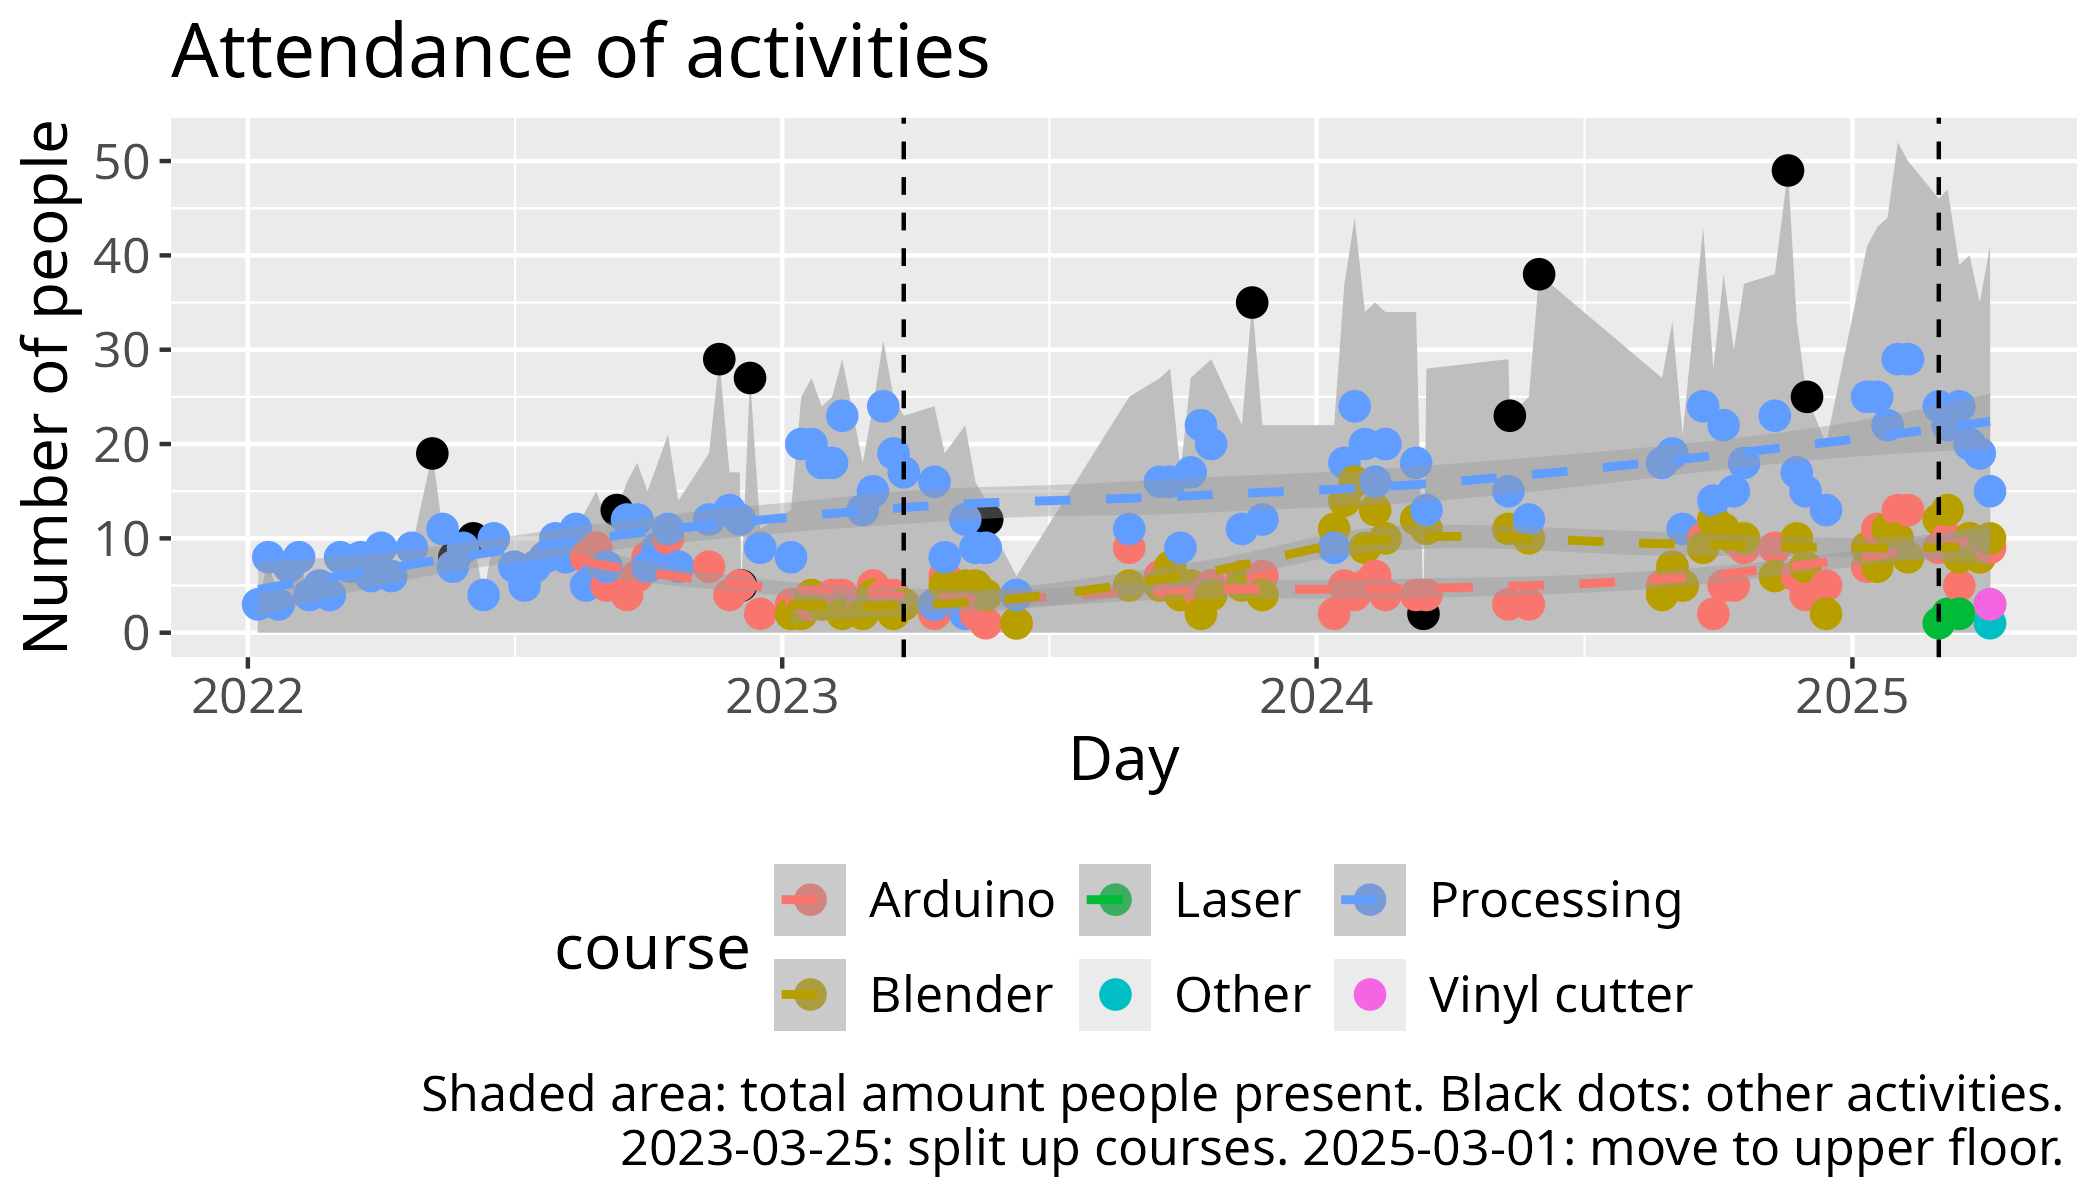
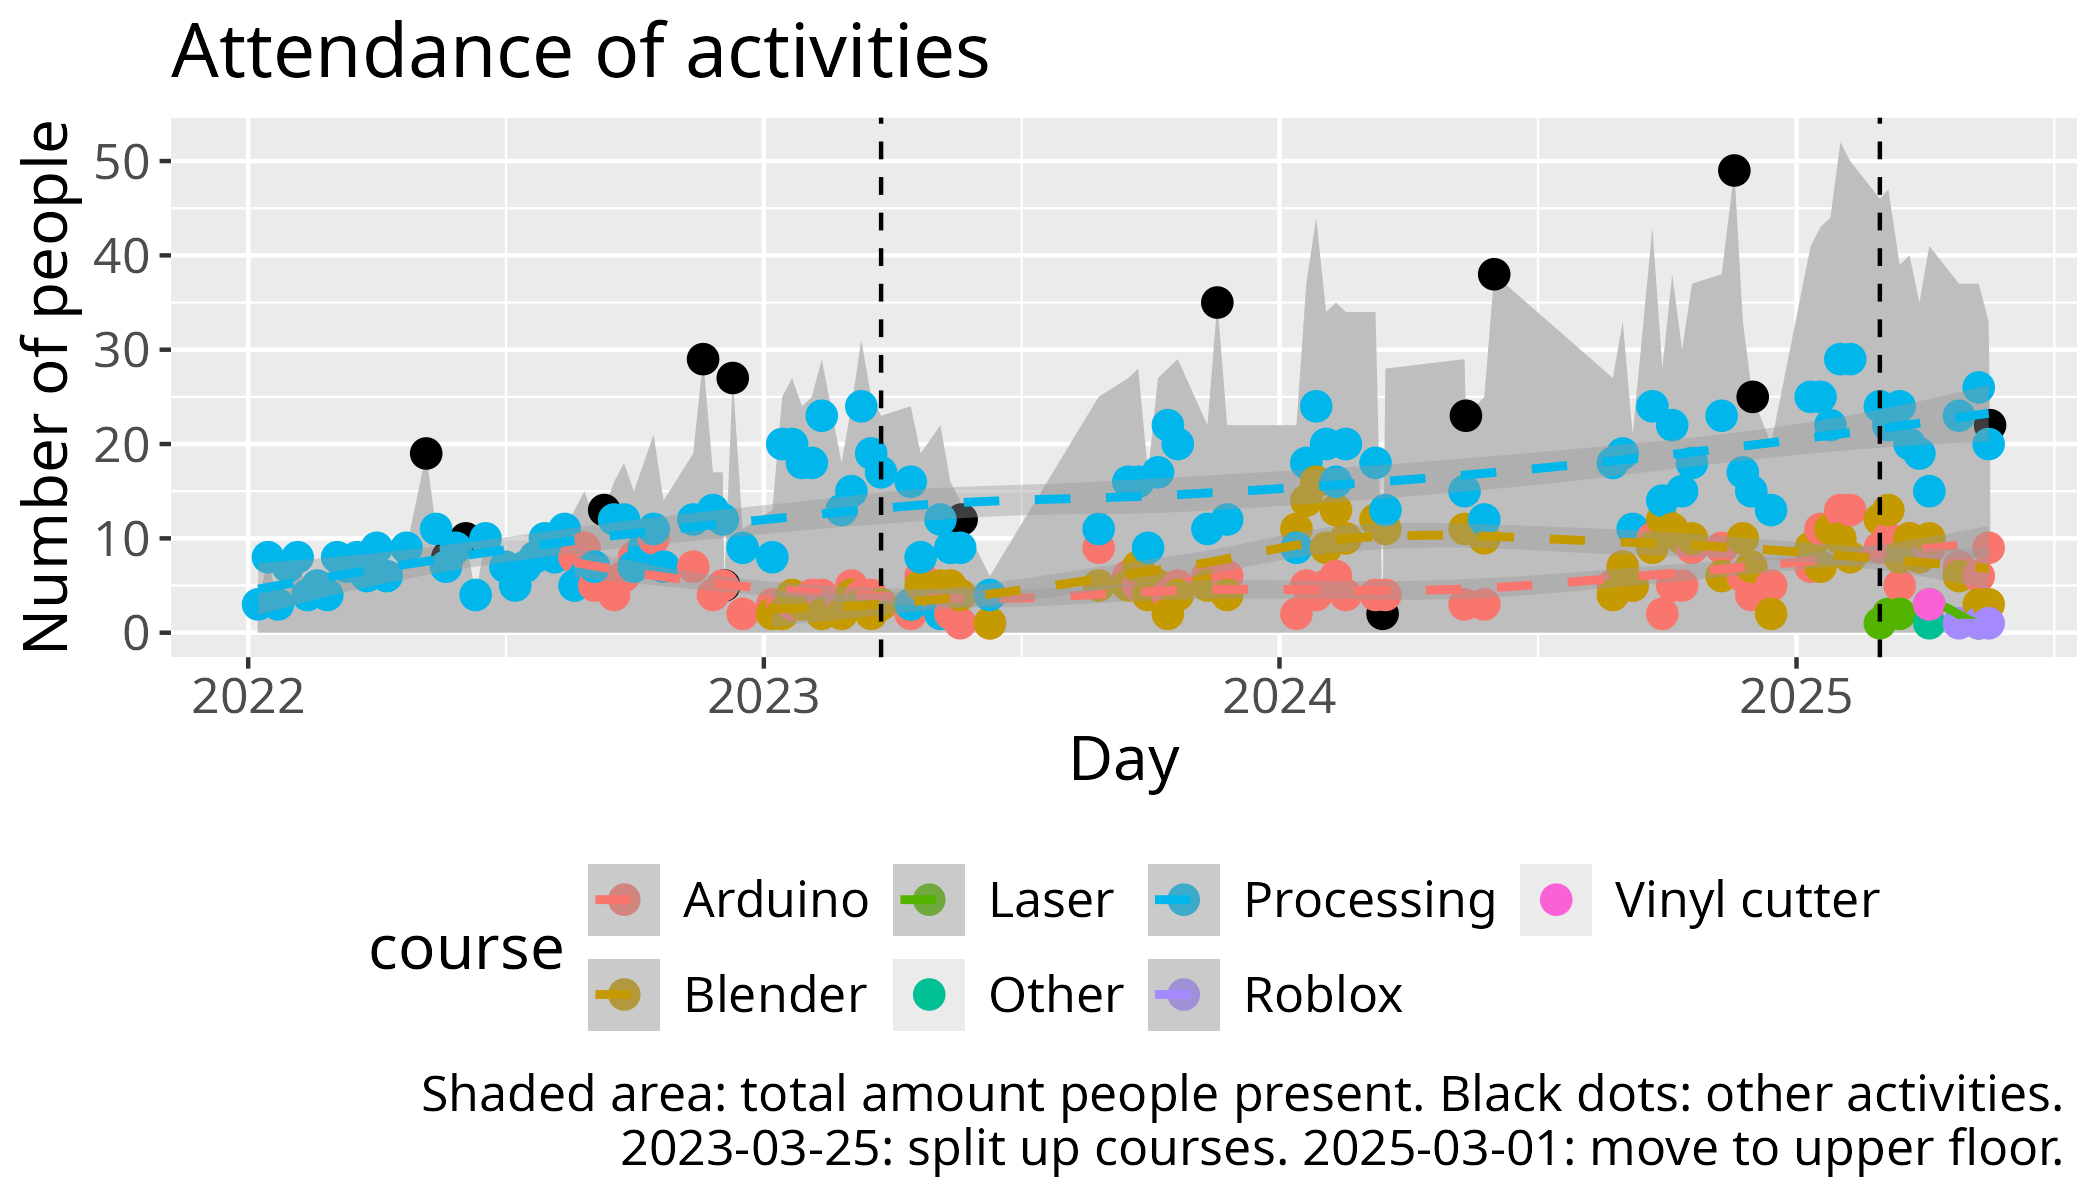
Prepare presentation

diff --git a/docs/verksamheter/20250524_slutpresentation/README.md b/docs/verksamheter/20250524_slutpresentation/README.md
@@ -116,6 +116,29 @@ Herman och Leonid             |99    |Train Game                             |Us
 
 ## Presentation parents
 
+- Don't forget:
+    - Next week: no course, because of klämdag
+    - In two weeks: last course day, which is an Eftermorsdag
+    - Next season starts 2025-08-23
+
+- Courses changes:
+
+    - We moved up
+
+![Number of learners per course](franvaro_2025_1_n_per_course.png)
+
+    - We added a reception desk
+    - Team of volunteers:
+        - 'veteran' volunteers: Janne (Processing), Kristoffer (Processing), Store Björn (Blender)
+        - volunteers that left: Leslie (Blender)
+        - new volunteers: Atom Björn (reception desk), Dennis (Processing), Elisha (Processing), Fredrik (Arduino), Nikita (Processing)
+
+- Future plans:
+
+    - Cooking course, 9:00-10:00, as part of the regular course
+
+- Extra thanks to these kids:
+
 ![How often learners offered to help new learners](n_offer_help_per_person_2025_1.png)
 
 ## Notes
